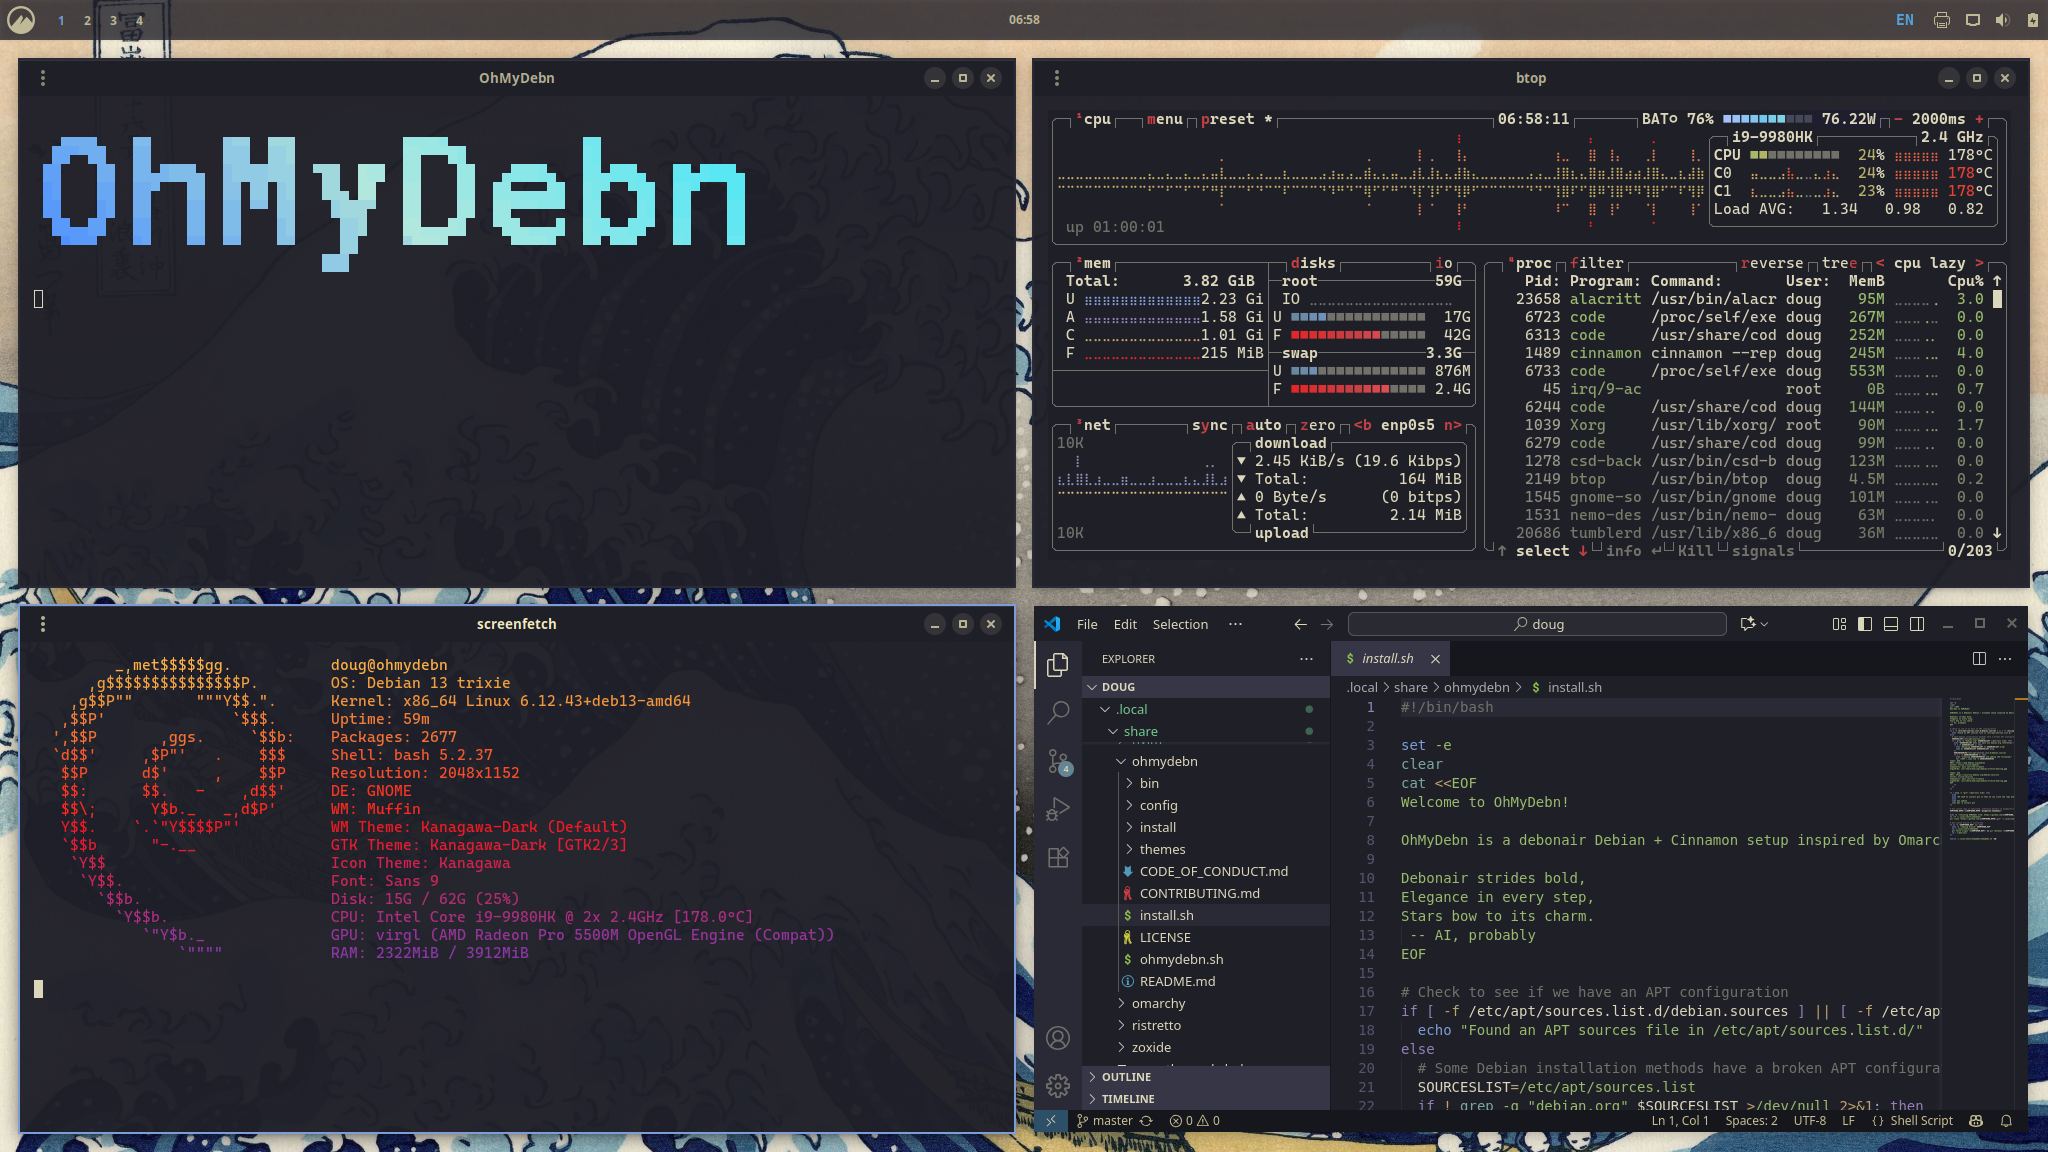
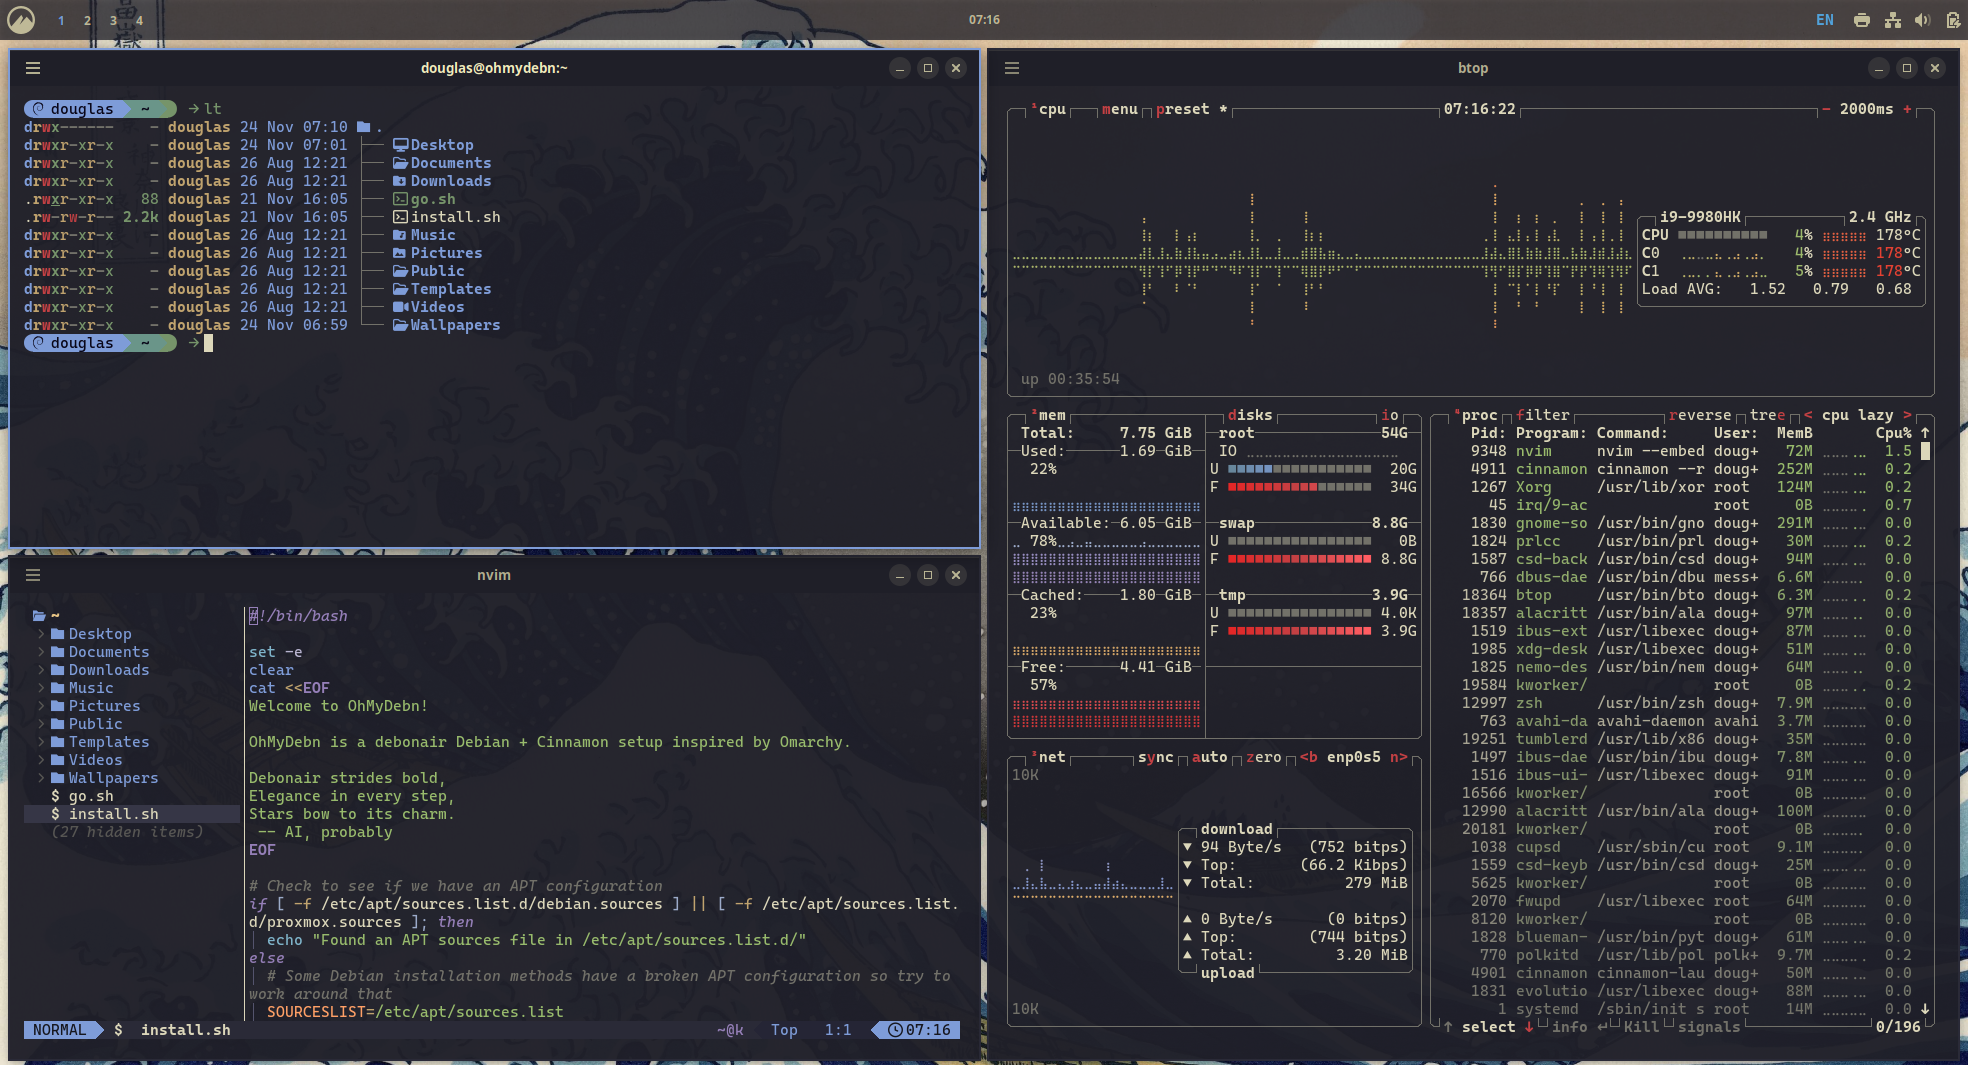
update screenshots for OhMyDebn 3.0

Changed region(s): [[0.0, 0.0, 1.0, 1.0], [0.6509, 0.1549, 0.7129, 0.1859], [0.4029, 0.8986, 0.4339, 0.9296]]

diff --git a/docs/window-tiling.md b/docs/window-tiling.md
@@ -44,11 +44,9 @@ There are also hotkeys for common tiling options that leverage gTile for window 
 
 For example, to lay out windows like in the following screenshot:
 
-- Press `Ctrl + Shift + O` to display the OhMyDebn logo and then `Ctrl + Shift 7` to tile to the upper left corner.
+- Press `Ctrl + Shift + O` to display the OhMyDebn logo and then `Ctrl + Shift + 7` to tile to the upper left corner.
 - Press `Ctrl + Shift + S` to display the screenfetch window and then `Ctrl + Shift + 1` to tile to the lower left corner.
 - Press `Super + T` to start btop and then `Ctrl + Shift + 9` to tile to the upper right corner.
-- Launch VSCode and then press `Ctrl + Shift + 3` to tile to the lower right corner.
+- Press `Super + N` to start neovim and then press `Ctrl + Shift + 3` to tile to the lower right corner.
 
 ![OhMyDebn gTile window tiling with gaps](https://raw.githubusercontent.com/dougburks/ohmydebn-docs/refs/heads/main/images/ohmydebn.png)
-
-
